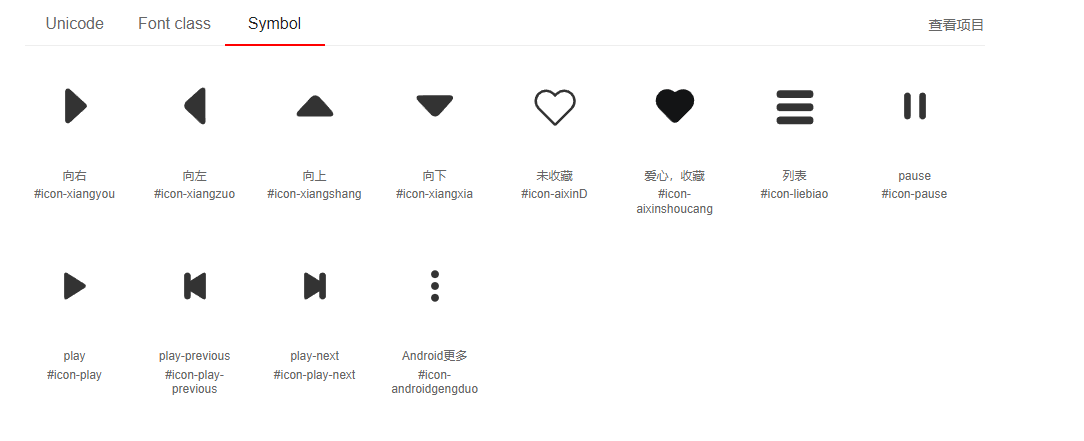
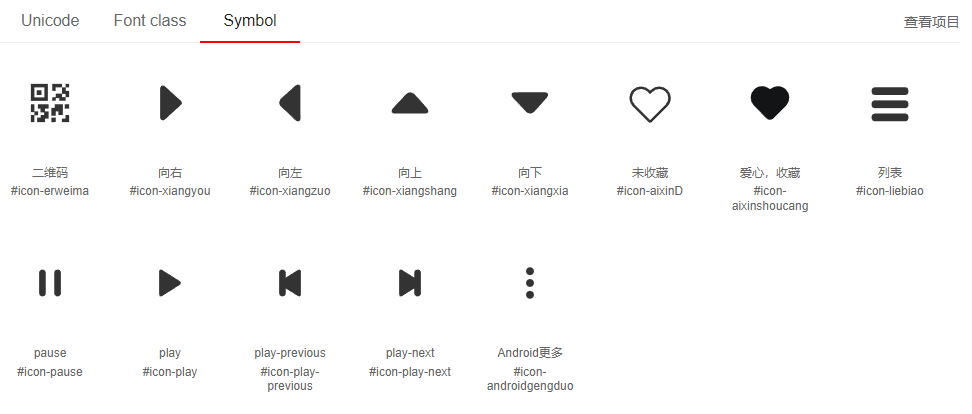
增加二维码字体符号

diff --git a/src/assets/fonts/iconfont.js b/src/assets/fonts/iconfont.js
@@ -1,1 +1,1 @@
-!function(t){var e,o,i,l,n,a='<svg><symbol id="icon-xiangyou" viewBox="0 0 1024 1024"><path d="M385.536 102.4l398.848 364.544c12.288 10.752 19.456 26.624 19.456 43.008s-7.168 32.256-19.456 43.008l-398.848 364.544c-18.944 17.92-46.08 23.552-70.656 14.336s-40.96-31.232-43.52-57.344V145.408c2.048-26.112 18.944-48.128 43.52-57.344 24.064-9.216 51.712-3.584 70.656 14.336z" fill="" ></path></symbol><symbol id="icon-xiangzuo" viewBox="0 0 1024 1024"><path d="M765.952 124.928l0 81.92 0 129.024 0 156.672 0 159.744q0 76.8 0.512 141.312t0.512 100.352q0 24.576-11.776 40.96t-29.696 22.016-39.424 0-39.936-24.064q-37.888-38.912-81.92-81.408t-90.624-85.504-94.208-86.016-91.648-82.944q-19.456-17.408-29.184-43.008t-8.704-53.248 11.776-54.272 32.256-45.056q39.936-34.816 79.36-70.144t80.896-72.704 87.04-78.336 96.768-87.04q22.528-20.48 45.568-27.136t41.472-2.048 29.696 20.48 11.264 40.448z"  ></path></symbol><symbol id="icon-xiangshang" viewBox="0 0 1024 1024"><path d="M896 768l-80.896 0-131.072 0-155.648 0-159.744 0-141.312 0-100.352 0q-24.576 0-39.936-11.264t-20.992-28.672-0.512-38.4 22.528-41.472q37.888-40.96 79.872-86.016t86.016-91.136l86.016-92.16q44.032-46.08 83.968-89.088 18.432-19.456 44.032-28.672t52.736-8.704 53.248 11.776 45.568 31.744q70.656 73.728 147.456 159.744t160.768 184.32q19.456 23.552 26.624 46.592t2.56 40.96-20.48 29.184-40.448 11.264z"  ></path></symbol><symbol id="icon-xiangxia" viewBox="0 0 1024 1024"><path d="M878.592 250.88q29.696 0 48.128 11.264t24.576 29.696 0 41.472-26.624 45.568q-82.944 92.16-159.744 180.224t-148.48 164.864q-19.456 20.48-45.568 31.744t-53.76 11.776-53.248-8.704-43.008-28.672q-39.936-44.032-82.944-90.112l-88.064-92.16q-43.008-46.08-85.504-90.624t-79.36-86.528q-17.408-19.456-22.528-40.448t1.024-38.4 23.552-28.672 45.056-11.264q35.84 0 98.816-0.512t137.728-0.512l153.6 0 150.528 0 125.952 0 79.872 0z"  ></path></symbol><symbol id="icon-aixinD" viewBox="0 0 1024 1024"><path d="M935.424 192c-53.76-53.76-124.928-82.944-200.192-82.944-75.776 0-146.944 29.696-200.192 82.944l-20.48 20.48-20.48-20.48C440.832 138.24 369.664 108.544 293.888 108.544S146.944 138.24 93.184 192c-110.08 110.592-109.568 290.304 0.512 400.896l389.632 389.632c8.704 8.704 19.968 13.312 31.744 13.312 11.776 0 23.04-4.608 31.744-13.312l389.632-389.632c110.08-111.104 109.568-290.816-1.024-400.896z m-41.984 357.376l-377.856 377.856-377.856-377.856c-86.528-86.528-87.04-227.328-1.024-314.368 41.984-41.984 97.792-65.024 157.184-65.024s115.2 23.04 157.184 65.024l63.488 63.488 63.488-63.488c41.984-41.984 97.792-65.024 157.184-65.024 59.392 0 115.2 23.04 157.184 65.024 86.016 86.528 86.528 227.328 1.024 314.368z" fill="#333333" ></path></symbol><symbol id="icon-aixinshoucang" viewBox="0 0 1024 1024"><path d="M537.98912 160.768a41.7792 41.7792 0 0 1-51.97824 0A274.2272 274.2272 0 0 0 121.79456 183.9104c-106.31168 107.19232-107.74528 280.12544-4.34176 389.12l4.34176 4.42368 306.5856 309.20704a117.76 117.76 0 0 0 167.23968 0l306.5856-309.20704 4.9152-5.05856c102.85056-109.01504 101.21216-281.4976-4.9152-388.48512A273.8176 273.8176 0 0 0 707.11296 102.4c-59.76064 0.02048-119.52128 19.456-169.12384 58.368z" fill="#131415" ></path></symbol><symbol id="icon-liebiao" viewBox="0 0 1024 1024"><path d="M892.928 128q28.672 0 48.64 19.968t19.968 48.64l0 52.224q0 28.672-19.968 48.64t-48.64 19.968l-759.808 0q-28.672 0-48.64-19.968t-19.968-48.64l0-52.224q0-28.672 19.968-48.64t48.64-19.968l759.808 0zM892.928 448.512q28.672 0 48.64 19.968t19.968 48.64l0 52.224q0 28.672-19.968 48.64t-48.64 19.968l-759.808 0q-28.672 0-48.64-19.968t-19.968-48.64l0-52.224q0-28.672 19.968-48.64t48.64-19.968l759.808 0zM892.928 769.024q28.672 0 48.64 19.968t19.968 48.64l0 52.224q0 28.672-19.968 48.64t-48.64 19.968l-759.808 0q-28.672 0-48.64-19.968t-19.968-48.64l0-52.224q0-28.672 19.968-48.64t48.64-19.968l759.808 0z"  ></path></symbol><symbol id="icon-pause" viewBox="0 0 1024 1024"><path d="M327.68 184.32a81.92 81.92 0 0 1 81.92 81.92v491.52a81.92 81.92 0 1 1-163.84 0V266.24a81.92 81.92 0 0 1 81.92-81.92z m368.64 0a81.92 81.92 0 0 1 81.92 81.92v491.52a81.92 81.92 0 1 1-163.84 0V266.24a81.92 81.92 0 0 1 81.92-81.92z"  ></path></symbol><symbol id="icon-play" viewBox="0 0 1024 1024"><path d="M245.76 785.203V238.797c0-50.442 34.918-69.182 77.967-42.046l422.196 266.117c43.11 27.157 43.069 71.128 0 98.284L323.727 827.249c-43.11 27.177-77.967 8.315-77.967-42.046z"  ></path></symbol><symbol id="icon-play-previous" viewBox="0 0 1024 1024"><path d="M409.6 379.965l290.673-183.214c43.049-27.136 77.967-8.396 77.967 42.046v546.406c0 50.36-34.857 69.223-77.967 42.046L409.6 644.035V757.76a81.92 81.92 0 1 1-163.84 0V266.24a81.92 81.92 0 1 1 163.84 0v113.725z"  ></path></symbol><symbol id="icon-play-next" viewBox="0 0 1024 1024"><path d="M614.4 379.965V266.24a81.92 81.92 0 1 1 163.84 0v491.52a81.92 81.92 0 1 1-163.84 0V644.035L323.727 827.249c-43.11 27.177-77.967 8.315-77.967-42.046V238.797c0-50.442 34.918-69.182 77.967-42.046L614.4 379.965z"  ></path></symbol><symbol id="icon-androidgengduo" viewBox="0 0 1024 1024"><path d="M415.930119 223.790358c0-52.980346 43.003528-95.983874 95.983874-95.983874s95.983874 43.003528 95.983874 95.983874-43.003528 95.983874-95.983874 95.983874S415.930119 276.770704 415.930119 223.790358z"  ></path><path d="M415.930119 511.741979c0-52.980346 43.003528-95.983874 95.983874-95.983874s95.983874 43.003528 95.983874 95.983874-43.003528 95.983874-95.983874 95.983874S415.930119 564.722325 415.930119 511.741979z"  ></path><path d="M415.930119 799.865614c0-52.980346 43.003528-95.983874 95.983874-95.983874s95.983874 43.003528 95.983874 95.983874-43.003528 95.983874-95.983874 95.983874S415.930119 852.673946 415.930119 799.865614z"  ></path></symbol></svg>',c=(c=document.getElementsByTagName("script"))[c.length-1].getAttribute("data-injectcss"),d=function(t,e){e.parentNode.insertBefore(t,e)};if(c&&!t.__iconfont__svg__cssinject__){t.__iconfont__svg__cssinject__=!0;try{document.write("<style>.svgfont {display: inline-block;width: 1em;height: 1em;fill: currentColor;vertical-align: -0.1em;font-size:16px;}</style>")}catch(t){console&&console.log(t)}}function s(){n||(n=!0,i())}function m(){try{l.documentElement.doScroll("left")}catch(t){return void setTimeout(m,50)}s()}e=function(){var t,e=document.createElement("div");e.innerHTML=a,a=null,(e=e.getElementsByTagName("svg")[0])&&(e.setAttribute("aria-hidden","true"),e.style.position="absolute",e.style.width=0,e.style.height=0,e.style.overflow="hidden",e=e,(t=document.body).firstChild?d(e,t.firstChild):t.appendChild(e))},document.addEventListener?~["complete","loaded","interactive"].indexOf(document.readyState)?setTimeout(e,0):(o=function(){document.removeEventListener("DOMContentLoaded",o,!1),e()},document.addEventListener("DOMContentLoaded",o,!1)):document.attachEvent&&(i=e,l=t.document,n=!1,m(),l.onreadystatechange=function(){"complete"==l.readyState&&(l.onreadystatechange=null,s())})}(window);
+!function(t){var l,e,o,i,n,a='<svg><symbol id="icon-erweima" viewBox="0 0 1024 1024"><path d="M48.384 45.376l412.224 0 0 84.992-412.224 0 0-84.992ZM565.44 45.376l238.656 0 0 84.992-238.656 0 0-84.992ZM891.584 45.376l86.72 0 0 86.72-86.72 0 0-86.72ZM48.384 374.4l412.224 0 0 85.056-412.224 0 0-85.056ZM45.696 45.376l84.992 0 0 412.224-84.992 0 0-412.224ZM375.616 45.376l84.992 0 0 412.224-84.992 0 0-412.224ZM189.376 200.832l115.712 0 0 115.712-115.712 0 0-115.712ZM565.44 130.368l82.752 0 0 87.232-82.752 0 0-87.232ZM804.032 130.368l90.752 0 0 160.512-90.752 0 0-160.512ZM891.584 217.6l86.72 0 0 151.872-86.72 0 0-151.872ZM651.328 282.688l152.768 0 0 109.312-152.768 0 0-109.312ZM736.832 369.408l155.392 0 0 88.128-155.392 0 0-88.128ZM565.952 372.16l85.376 0 0 85.376-85.376 0 0-85.376ZM45.696 542.784l84.992 0 0 192.576-84.992 0 0-192.576ZM130.88 717.248l91.968 0 0 92.032-91.968 0 0-92.032ZM45.696 805.632l85.184 0 0 173.056-85.184 0 0-173.056ZM217.664 542.784l261.696 0 0 105.728-261.696 0 0-105.728ZM281.344 639.104l109.184 0 0 100.48-109.184 0 0-100.48ZM370.176 717.248l109.184 0 0 174.848-109.184 0 0-174.848ZM285.44 805.632l105.088 0 0 173.056-105.088 0 0-173.056ZM197.952 869.12l102.016 0 0 109.568-102.016 0 0-109.568ZM629.184 542.784l195.264 0 0 174.464-195.264 0 0-174.464ZM871.168 542.784l107.136 0 0 107.136-107.136 0 0-107.136ZM545.088 630.016l107.136 0 0 194.304-107.136 0 0-194.304ZM716.672 692.8l107.776 0 0 111.872-107.776 0 0-111.872ZM545.088 869.12l107.136 0 0 109.568-107.136 0 0-109.568ZM802.816 892.096l175.488 0 0 86.592-175.488 0 0-86.592ZM890.56 804.672l87.744 0 0 105.728-87.744 0 0-105.728Z"  ></path></symbol><symbol id="icon-xiangyou" viewBox="0 0 1024 1024"><path d="M385.536 102.4l398.848 364.544c12.288 10.752 19.456 26.624 19.456 43.008s-7.168 32.256-19.456 43.008l-398.848 364.544c-18.944 17.92-46.08 23.552-70.656 14.336s-40.96-31.232-43.52-57.344V145.408c2.048-26.112 18.944-48.128 43.52-57.344 24.064-9.216 51.712-3.584 70.656 14.336z" fill="" ></path></symbol><symbol id="icon-xiangzuo" viewBox="0 0 1024 1024"><path d="M765.952 124.928l0 81.92 0 129.024 0 156.672 0 159.744q0 76.8 0.512 141.312t0.512 100.352q0 24.576-11.776 40.96t-29.696 22.016-39.424 0-39.936-24.064q-37.888-38.912-81.92-81.408t-90.624-85.504-94.208-86.016-91.648-82.944q-19.456-17.408-29.184-43.008t-8.704-53.248 11.776-54.272 32.256-45.056q39.936-34.816 79.36-70.144t80.896-72.704 87.04-78.336 96.768-87.04q22.528-20.48 45.568-27.136t41.472-2.048 29.696 20.48 11.264 40.448z"  ></path></symbol><symbol id="icon-xiangshang" viewBox="0 0 1024 1024"><path d="M896 768l-80.896 0-131.072 0-155.648 0-159.744 0-141.312 0-100.352 0q-24.576 0-39.936-11.264t-20.992-28.672-0.512-38.4 22.528-41.472q37.888-40.96 79.872-86.016t86.016-91.136l86.016-92.16q44.032-46.08 83.968-89.088 18.432-19.456 44.032-28.672t52.736-8.704 53.248 11.776 45.568 31.744q70.656 73.728 147.456 159.744t160.768 184.32q19.456 23.552 26.624 46.592t2.56 40.96-20.48 29.184-40.448 11.264z"  ></path></symbol><symbol id="icon-xiangxia" viewBox="0 0 1024 1024"><path d="M878.592 250.88q29.696 0 48.128 11.264t24.576 29.696 0 41.472-26.624 45.568q-82.944 92.16-159.744 180.224t-148.48 164.864q-19.456 20.48-45.568 31.744t-53.76 11.776-53.248-8.704-43.008-28.672q-39.936-44.032-82.944-90.112l-88.064-92.16q-43.008-46.08-85.504-90.624t-79.36-86.528q-17.408-19.456-22.528-40.448t1.024-38.4 23.552-28.672 45.056-11.264q35.84 0 98.816-0.512t137.728-0.512l153.6 0 150.528 0 125.952 0 79.872 0z"  ></path></symbol><symbol id="icon-aixinD" viewBox="0 0 1024 1024"><path d="M935.424 192c-53.76-53.76-124.928-82.944-200.192-82.944-75.776 0-146.944 29.696-200.192 82.944l-20.48 20.48-20.48-20.48C440.832 138.24 369.664 108.544 293.888 108.544S146.944 138.24 93.184 192c-110.08 110.592-109.568 290.304 0.512 400.896l389.632 389.632c8.704 8.704 19.968 13.312 31.744 13.312 11.776 0 23.04-4.608 31.744-13.312l389.632-389.632c110.08-111.104 109.568-290.816-1.024-400.896z m-41.984 357.376l-377.856 377.856-377.856-377.856c-86.528-86.528-87.04-227.328-1.024-314.368 41.984-41.984 97.792-65.024 157.184-65.024s115.2 23.04 157.184 65.024l63.488 63.488 63.488-63.488c41.984-41.984 97.792-65.024 157.184-65.024 59.392 0 115.2 23.04 157.184 65.024 86.016 86.528 86.528 227.328 1.024 314.368z" fill="#333333" ></path></symbol><symbol id="icon-aixinshoucang" viewBox="0 0 1024 1024"><path d="M537.98912 160.768a41.7792 41.7792 0 0 1-51.97824 0A274.2272 274.2272 0 0 0 121.79456 183.9104c-106.31168 107.19232-107.74528 280.12544-4.34176 389.12l4.34176 4.42368 306.5856 309.20704a117.76 117.76 0 0 0 167.23968 0l306.5856-309.20704 4.9152-5.05856c102.85056-109.01504 101.21216-281.4976-4.9152-388.48512A273.8176 273.8176 0 0 0 707.11296 102.4c-59.76064 0.02048-119.52128 19.456-169.12384 58.368z" fill="#131415" ></path></symbol><symbol id="icon-liebiao" viewBox="0 0 1024 1024"><path d="M892.928 128q28.672 0 48.64 19.968t19.968 48.64l0 52.224q0 28.672-19.968 48.64t-48.64 19.968l-759.808 0q-28.672 0-48.64-19.968t-19.968-48.64l0-52.224q0-28.672 19.968-48.64t48.64-19.968l759.808 0zM892.928 448.512q28.672 0 48.64 19.968t19.968 48.64l0 52.224q0 28.672-19.968 48.64t-48.64 19.968l-759.808 0q-28.672 0-48.64-19.968t-19.968-48.64l0-52.224q0-28.672 19.968-48.64t48.64-19.968l759.808 0zM892.928 769.024q28.672 0 48.64 19.968t19.968 48.64l0 52.224q0 28.672-19.968 48.64t-48.64 19.968l-759.808 0q-28.672 0-48.64-19.968t-19.968-48.64l0-52.224q0-28.672 19.968-48.64t48.64-19.968l759.808 0z"  ></path></symbol><symbol id="icon-pause" viewBox="0 0 1024 1024"><path d="M327.68 184.32a81.92 81.92 0 0 1 81.92 81.92v491.52a81.92 81.92 0 1 1-163.84 0V266.24a81.92 81.92 0 0 1 81.92-81.92z m368.64 0a81.92 81.92 0 0 1 81.92 81.92v491.52a81.92 81.92 0 1 1-163.84 0V266.24a81.92 81.92 0 0 1 81.92-81.92z"  ></path></symbol><symbol id="icon-play" viewBox="0 0 1024 1024"><path d="M245.76 785.203V238.797c0-50.442 34.918-69.182 77.967-42.046l422.196 266.117c43.11 27.157 43.069 71.128 0 98.284L323.727 827.249c-43.11 27.177-77.967 8.315-77.967-42.046z"  ></path></symbol><symbol id="icon-play-previous" viewBox="0 0 1024 1024"><path d="M409.6 379.965l290.673-183.214c43.049-27.136 77.967-8.396 77.967 42.046v546.406c0 50.36-34.857 69.223-77.967 42.046L409.6 644.035V757.76a81.92 81.92 0 1 1-163.84 0V266.24a81.92 81.92 0 1 1 163.84 0v113.725z"  ></path></symbol><symbol id="icon-play-next" viewBox="0 0 1024 1024"><path d="M614.4 379.965V266.24a81.92 81.92 0 1 1 163.84 0v491.52a81.92 81.92 0 1 1-163.84 0V644.035L323.727 827.249c-43.11 27.177-77.967 8.315-77.967-42.046V238.797c0-50.442 34.918-69.182 77.967-42.046L614.4 379.965z"  ></path></symbol><symbol id="icon-androidgengduo" viewBox="0 0 1024 1024"><path d="M415.930119 223.790358c0-52.980346 43.003528-95.983874 95.983874-95.983874s95.983874 43.003528 95.983874 95.983874-43.003528 95.983874-95.983874 95.983874S415.930119 276.770704 415.930119 223.790358z"  ></path><path d="M415.930119 511.741979c0-52.980346 43.003528-95.983874 95.983874-95.983874s95.983874 43.003528 95.983874 95.983874-43.003528 95.983874-95.983874 95.983874S415.930119 564.722325 415.930119 511.741979z"  ></path><path d="M415.930119 799.865614c0-52.980346 43.003528-95.983874 95.983874-95.983874s95.983874 43.003528 95.983874 95.983874-43.003528 95.983874-95.983874 95.983874S415.930119 852.673946 415.930119 799.865614z"  ></path></symbol></svg>',c=(c=document.getElementsByTagName("script"))[c.length-1].getAttribute("data-injectcss"),d=function(t,l){l.parentNode.insertBefore(t,l)};if(c&&!t.__iconfont__svg__cssinject__){t.__iconfont__svg__cssinject__=!0;try{document.write("<style>.svgfont {display: inline-block;width: 1em;height: 1em;fill: currentColor;vertical-align: -0.1em;font-size:16px;}</style>")}catch(t){console&&console.log(t)}}function s(){n||(n=!0,o())}function m(){try{i.documentElement.doScroll("left")}catch(t){return void setTimeout(m,50)}s()}l=function(){var t,l=document.createElement("div");l.innerHTML=a,a=null,(l=l.getElementsByTagName("svg")[0])&&(l.setAttribute("aria-hidden","true"),l.style.position="absolute",l.style.width=0,l.style.height=0,l.style.overflow="hidden",l=l,(t=document.body).firstChild?d(l,t.firstChild):t.appendChild(l))},document.addEventListener?~["complete","loaded","interactive"].indexOf(document.readyState)?setTimeout(l,0):(e=function(){document.removeEventListener("DOMContentLoaded",e,!1),l()},document.addEventListener("DOMContentLoaded",e,!1)):document.attachEvent&&(o=l,i=t.document,n=!1,m(),i.onreadystatechange=function(){"complete"==i.readyState&&(i.onreadystatechange=null,s())})}(window);
